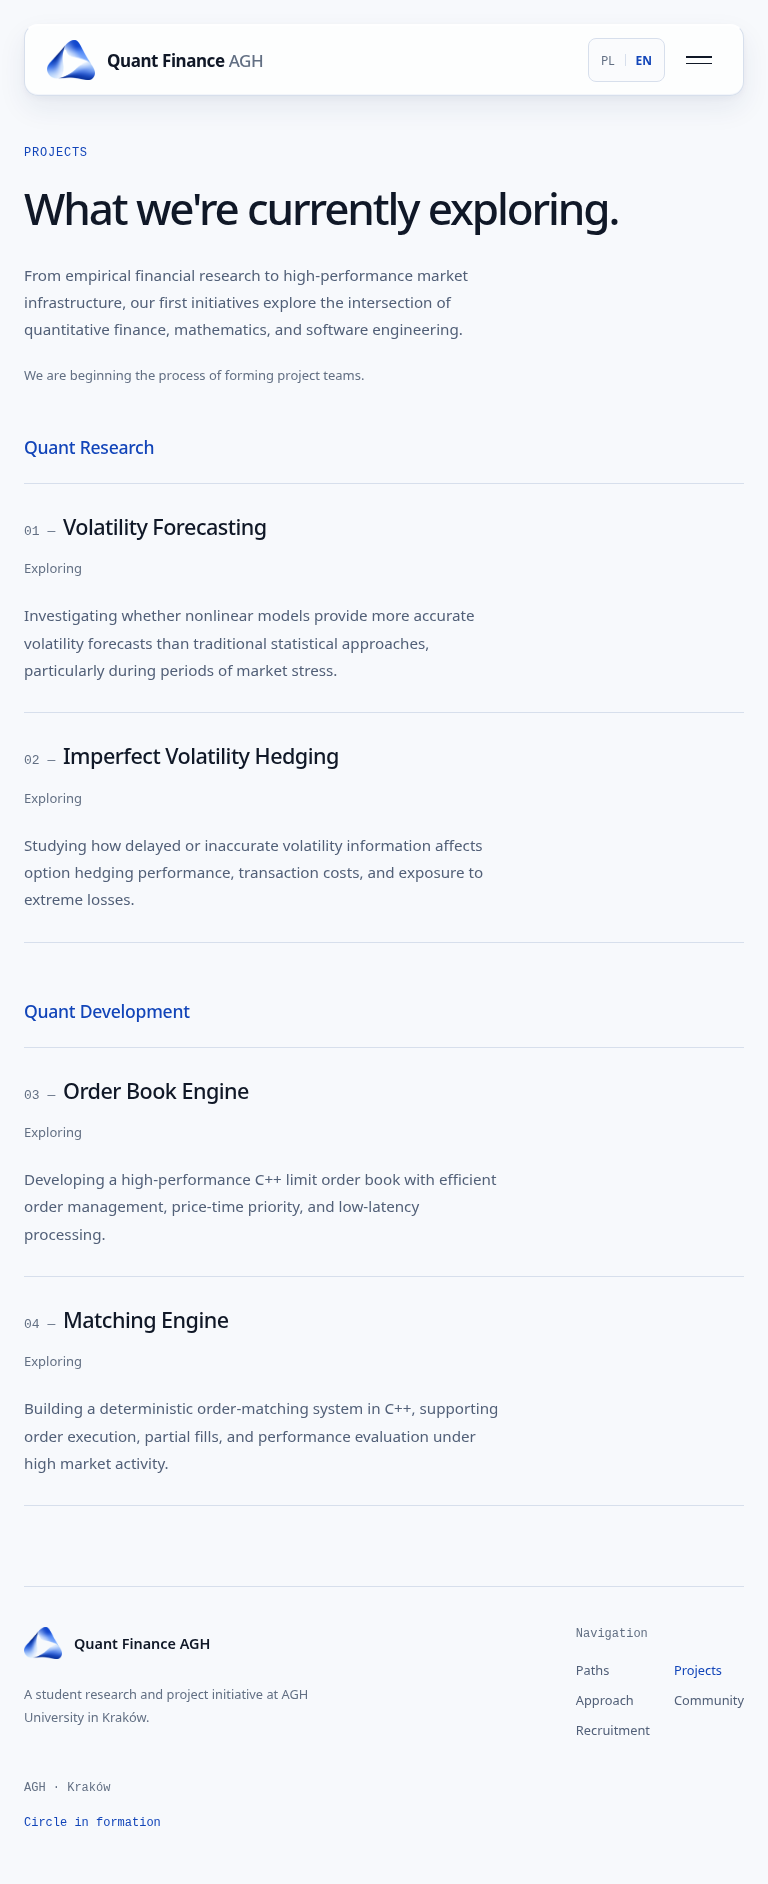
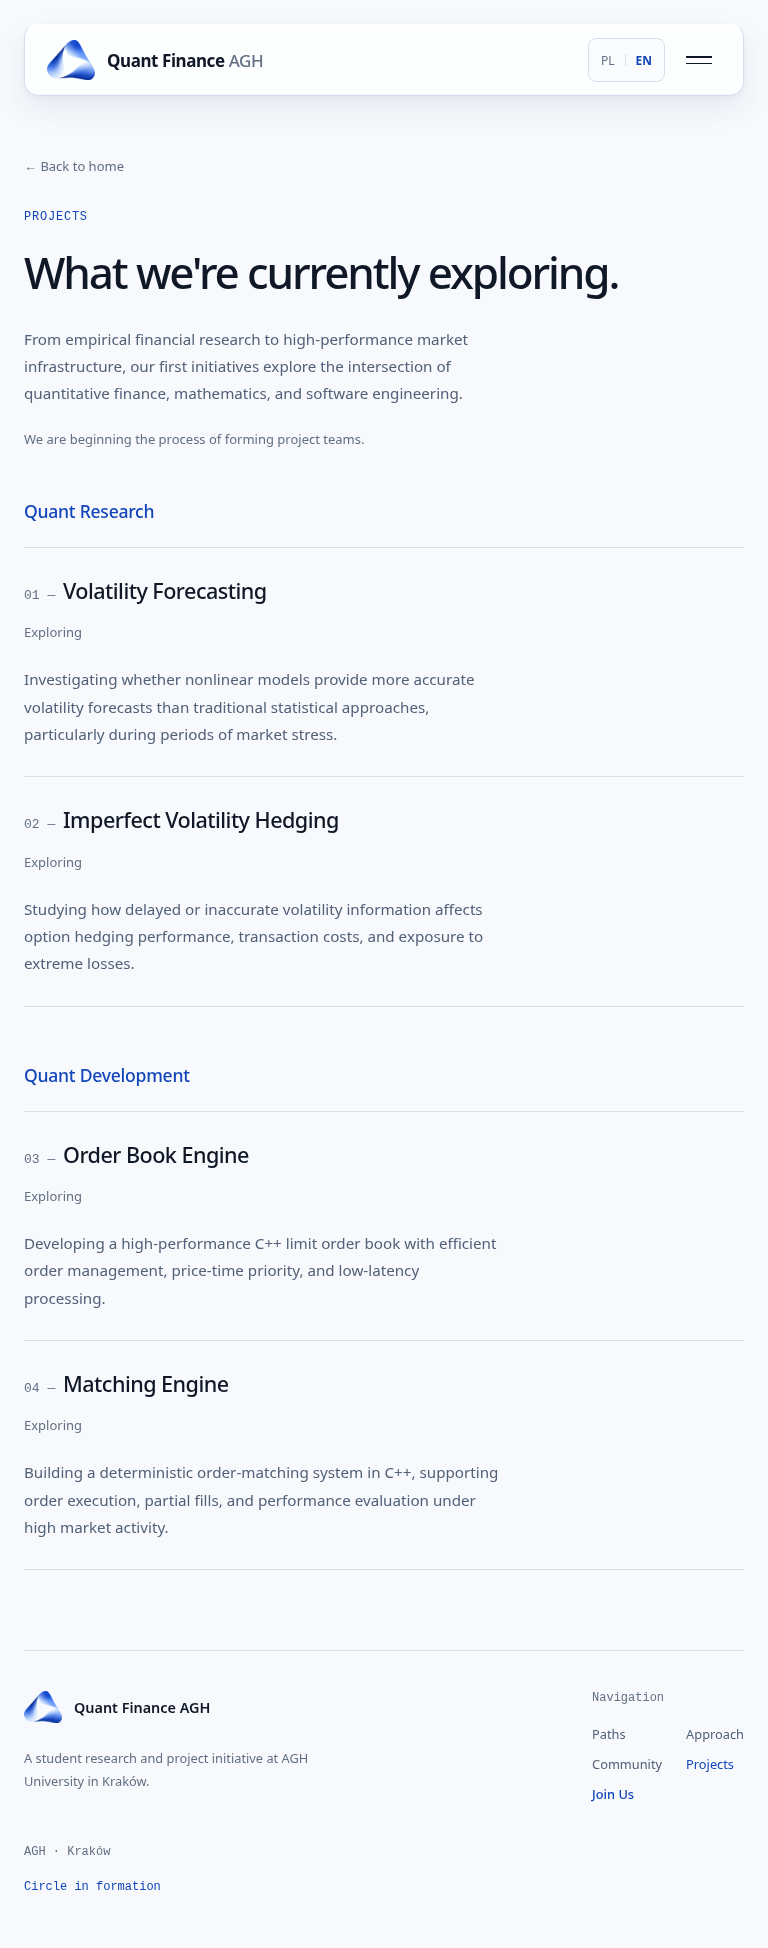
Separate Join Us action from informational navigation

diff --git a/src/styles.css b/src/styles.css
@@ -58,6 +58,8 @@ a { color: inherit; }
 .desktop-navigation a { display: inline-flex; align-items: center; min-height: 44px; text-decoration: none; color: var(--muted); font-size: .875rem; }
 .desktop-navigation a:hover { color: var(--accent); }
 .header-actions { display: flex; align-items: center; gap: 12px; }
+.header-join { display: inline-flex; align-items: center; gap: 8px; min-height: 44px; padding-inline: 6px; color: var(--accent); font-size: .875rem; font-weight: 550; text-decoration: none; white-space: nowrap; }
+.header-join:hover { color: #0f3794; }
 .language-button { min-height: 44px; display: flex; align-items: center; gap: 10px; padding: 0 12px; border: 1px solid var(--line); border-radius: 8px; background: var(--bg); color: var(--quiet); cursor: pointer; font-size: .75rem; }
 .language-button span[data-active] { color: var(--accent); font-weight: 700; }
 .language-divider { width: 1px; height: 12px; background: var(--line); }
@@ -71,6 +73,8 @@ a { color: inherit; }
 .desktop-navigation a[aria-current="page"], .footer__links a[aria-current="page"] { color: var(--accent); }
 .projects-page { padding-block: 176px var(--space-7); }
 .projects-loading { padding-block: 176px var(--space-7); }
+.projects-back-link { display: inline-flex; align-items: center; min-height: 44px; margin-bottom: 20px; color: var(--quiet); font-size: .8125rem; line-height: 1.6; text-decoration: none; }
+.projects-back-link:hover { color: var(--accent); }
 .projects-introduction { display: grid; grid-template-columns: 1.12fr .88fr; gap: 64px; align-items: start; margin-bottom: 64px; }
 .projects-introduction h1 { max-width: 680px; margin: 22px 0 0; font-size: clamp(2.75rem, 3.8vw, 3.25rem); line-height: 1.13; letter-spacing: -.048em; font-weight: 520; text-wrap: balance; }
 .projects-introduction__copy { padding-top: 4px; }
@@ -200,12 +204,14 @@ a { color: inherit; }
 .footer__links > span { grid-column: 1 / -1; margin-bottom: 8px; color: var(--quiet); font: .75rem var(--mono); }
 .footer__links a { color: var(--muted); font-size: .8rem; text-decoration: none; }
 .footer__links a:hover { color: var(--accent); }
+.footer__links .footer__join { grid-column: 1 / -1; color: var(--accent); font-weight: 550; }
 .footer__meta { justify-self: end; display: grid; justify-items: end; align-content: start; gap: 15px; color: var(--quiet); font: .75rem/1.6 var(--mono); }
 .footer-status { color: var(--accent); }
 
 @media (max-width: 1100px) {
   :root { --shell: calc(100% - 64px); }
   .desktop-navigation { display: none; }
+  .header-join { display: none; }
   .menu-button { display: block; }
   .mobile-menu-scrim { display: block; position: fixed; z-index: 0; inset: -24px calc((100vw - var(--shell)) / -2); height: 100dvh; background: rgb(16 24 39 / 20%); opacity: 0; pointer-events: none; transition: opacity 180ms ease; }
   .mobile-menu-scrim[data-open] { opacity: 1; pointer-events: auto; }
@@ -214,6 +220,7 @@ a { color: inherit; }
   .mobile-menu a { display: flex; align-items: center; justify-content: space-between; min-height: 56px; padding: 12px 16px; color: var(--ink); border-radius: 6px; text-decoration: none; font-size: .95rem; }
   .mobile-menu a:hover { background: var(--surface-raised); }
   .mobile-menu a span { color: var(--accent); }
+  .mobile-menu a.mobile-menu__join { margin-top: 8px; border-top: 1px solid var(--line); border-radius: 0; color: var(--accent); font-weight: 550; }
   .hero { padding-top: 160px; column-gap: 40px; grid-template-columns: minmax(0, 1.2fr) minmax(0, 1fr); }
   .hero h1 { font-size: clamp(2.5rem, 4.7vw, 3.25rem); }
   .path-panel { padding: 24px 20px; }

diff --git a/src/components/Header.tsx b/src/components/Header.tsx
@@ -1,6 +1,6 @@
 import { useEffect, useRef, useState } from "react";
 import type { Language, SiteCopy } from "../content";
-import { navigationItems } from "../navigation";
+import { navigationItems, recruitmentHref } from "../navigation";
 
 type HeaderProps = {
   copy: SiteCopy["header"];
@@ -55,6 +55,7 @@ export function Header({ copy, language, languageLabel, onToggleLanguage, isProj
           {items.map((item) => <a key={item.key} href={item.href} aria-current={isProjectsPage && item.key === "projects" ? "page" : undefined}>{copy[item.key]}</a>)}
         </nav>
         <div className="header-actions">
+          <a className="header-join pressable" href={recruitmentHref(isProjectsPage)}>{copy.joinAction}<span aria-hidden="true">↗</span></a>
           <button className="language-button pressable" type="button" aria-label={languageLabel} onClick={onToggleLanguage}>
             <span data-active={language === "pl" ? "" : undefined}>PL</span><span className="language-divider" aria-hidden="true" />
             <span data-active={language === "en" ? "" : undefined}>EN</span>
@@ -71,6 +72,7 @@ export function Header({ copy, language, languageLabel, onToggleLanguage, isProj
         {items.map((item) => (
           <a key={item.key} href={item.href} aria-current={isProjectsPage && item.key === "projects" ? "page" : undefined} onClick={closeMenu}>{copy[item.key]}<span aria-hidden="true">↗</span></a>
         ))}
+        <a className="mobile-menu__join" href={recruitmentHref(isProjectsPage)} onClick={closeMenu}>{copy.joinAction}<span aria-hidden="true">↗</span></a>
       </nav>
     </header>
   );

diff --git a/src/projects.ts b/src/projects.ts
@@ -28,6 +28,7 @@ export function publicProjectUrl(link: VerifiedPublicLink | undefined): string |
 }
 
 type ProjectsCopy = {
+  backHome: string;
   eyebrow: string;
   title: string;
   description: string;
@@ -39,6 +40,7 @@ type ProjectsCopy = {
 
 export const projectsCopy: Record<Language, ProjectsCopy> = {
   en: {
+    backHome: "← Back to home",
     eyebrow: "Projects",
     title: "What we're currently exploring.",
     description: "From empirical financial research to high-performance market infrastructure, our first initiatives explore the intersection of quantitative finance, mathematics, and software engineering.",
@@ -65,6 +67,7 @@ export const projectsCopy: Record<Language, ProjectsCopy> = {
     },
   },
   pl: {
+    backHome: "← Powrót na stronę główną",
     eyebrow: "Projekty",
     title: "Kierunki, które obecnie zgłębiamy.",
     description: "Od empirycznych badań finansowych po wydajną infrastrukturę rynkową — nasze pierwsze inicjatywy łączą finanse ilościowe, matematykę i inżynierię oprogramowania.",

diff --git a/src/content.ts b/src/content.ts
@@ -30,7 +30,7 @@ export type SiteCopy = {
     projects: string;
     approach: string;
     community: string;
-    recruitment: string;
+    joinAction: string;
     status: string;
     openMenu: string;
     closeMenu: string;
@@ -108,7 +108,7 @@ export const siteCopy: Record<Language, SiteCopy> = {
       projects: "Projekty",
       approach: "Podejście",
       community: "Społeczność",
-      recruitment: "Rekrutacja",
+      joinAction: "Dołącz do nas",
       status: "Formularz wkrótce",
       openMenu: "Otwórz menu",
       closeMenu: "Zamknij menu",
@@ -234,7 +234,7 @@ export const siteCopy: Record<Language, SiteCopy> = {
       projects: "Projects",
       approach: "Approach",
       community: "Community",
-      recruitment: "Recruitment",
+      joinAction: "Join Us",
       status: "Form coming soon",
       openMenu: "Open menu",
       closeMenu: "Close menu",

diff --git a/src/components/Footer.tsx b/src/components/Footer.tsx
@@ -1,5 +1,5 @@
 import type { SiteCopy } from "../content";
-import { navigationItems } from "../navigation";
+import { navigationItems, recruitmentHref } from "../navigation";
 
 type FooterProps = {
   copy: SiteCopy["footer"];
@@ -16,6 +16,7 @@ export function Footer({ copy, navigation, isProjectsPage }: FooterProps) {
         {navigationItems(isProjectsPage).map((item) => (
           <a key={item.key} href={item.href} aria-current={isProjectsPage && item.key === "projects" ? "page" : undefined}>{navigation[item.key]}</a>
         ))}
+        <a className="footer__join" href={recruitmentHref(isProjectsPage)}>{navigation.joinAction}</a>
       </div>
       <div className="footer__meta"><span>{copy.location}</span><span className="footer-status"><i aria-hidden="true" />{copy.status}</span></div>
     </footer>

diff --git a/src/navigation.ts b/src/navigation.ts
@@ -2,9 +2,12 @@ export function navigationItems(isProjectsPage: boolean) {
   const home = isProjectsPage ? "/" : "";
   return [
     { href: `${home}#paths`, key: "paths" },
-    { href: "/projects", key: "projects" },
     { href: `${home}#approach`, key: "approach" },
     { href: `${home}#community`, key: "community" },
-    { href: `${home}#recruitment`, key: "recruitment" },
+    { href: "/projects", key: "projects" },
   ] as const;
+}
+
+export function recruitmentHref(isProjectsPage: boolean) {
+  return isProjectsPage ? "/#recruitment" : "#recruitment";
 }

diff --git a/src/components/ProjectsPage.tsx b/src/components/ProjectsPage.tsx
@@ -15,6 +15,7 @@ export default function ProjectsPage({ language }: { language: Language }) {
 
   return (
     <div className="projects-page shell">
+      <a className="projects-back-link" href="/">{copy.backHome}</a>
       <header className="projects-introduction" data-reveal>
         <div><p className="eyebrow">{copy.eyebrow}</p><h1>{copy.title}</h1></div>
         <div className="projects-introduction__copy"><p>{copy.description}</p><p className="projects-formation-note">{copy.formationNote}</p></div>

diff --git a/docs/projects-and-membership-review.md b/docs/projects-and-membership-review.md
@@ -7,7 +7,8 @@ Branch: `feat/projects-and-membership`, created from `main` at `1e6970f`. This i
 - `/projects` and `/projects/` present four concise bilingual entries in Quant Research and Quant Development groups. The English heading, introduction and summaries follow the supplied brief. All four display **Exploring / Rozpoznanie**, with a note that team formation is beginning.
 - IDs, numbering and grouping come from `src/projectProposals.ts`. That complete file is byte-for-byte unchanged from main; scientific methods, technical scope, evaluation, deliverables and proposed staffing/durations remain preserved. The short presentation copy and manually maintained publication status live separately in `src/projects.ts`.
 - Optional repository, documentation and publication/report links have a URL plus a required verification date. No links are configured or rendered. A date records manual verification; it does not automatically check a URL or advance status. Project status changes require a reviewed source change with verified evidence.
-- Desktop/mobile navigation and the footer share the same Projects link. The existing navigation material and all prior style rules are unchanged. On Projects, section links point back to the homepage and the active page is identified with `aria-current="page"`.
+- Informational navigation follows Paths → Approach → Community → Projects (with Polish labels). Desktop Join Us ↗ / Dołącz do nas ↗ is a separate quiet blue action next to the PL/EN switcher. On mobile it is the final menu action, separated by a thin rule; the footer follows the same hierarchy and ends with Join Us. Projects always opens in the same tab. The existing glass material, logo and menu behavior remain unchanged. On Projects, homepage links use `/#...` and the active page is identified with `aria-current="page"`.
+- Projects has a small ← Back to home / ← Powrót na stronę główną link above the introduction, pointing to `/` and retaining the saved language preference.
 - Page changes use native links. No routing dependency was added; the Projects module loads separately. Explicit PL/EN preferences survive native page navigation and reloads. Fresh visitors start in English.
 - A small initial-fragment effect scrolls/focuses homepage sections after React mounts, so cross-page section links work with keyboard navigation. Existing same-page links retain their behavior.
 
@@ -42,12 +43,22 @@ Manual steps remain: authorize/run under the verified society account; inspect r
 - Apps Script tests use service doubles; they verify local syntax/control flow, **not actual Google execution or account ownership**.
 - Chromium production-output tests pass in EN/PL at **375, 768, 1440 and 1920px**: direct `/projects`, refresh, four statuses, correct groups/indices, no invented project links, shared navigation/footer links, cross-page section focus/clearance, language persistence and brand-home links.
 - Skip link, keyboard Enter navigation, mobile menu initial focus/Escape restoration and closed recruitment dialog Tab/Shift+Tab containment, Escape/close/backdrop dismissal, body scroll lock and focus restoration pass. Tests include reduced motion.
-- No horizontal document overflow, JavaScript/console errors or failed requests in the eight viewport/language runs. Visual review covers desktop and mobile in both languages.
+- The final navigation refinement is checked on both pages in EN/PL at 375, 768, 1101, 1440 and 1920px. The 1101px desktop threshold fits all header items, including the Polish Join Us label. Every header/menu/footer destination, same-tab Projects navigation, cross-page section focus, Back to home, language persistence and Escape/menu closure are verified.
+- No horizontal document overflow, JavaScript/console errors or failed requests in the viewport/language runs. Visual review covers desktop and mobile in both languages.
 - Normal-motion and browser-storage failure checks also pass; the retained hero tab controls still support Arrow/Home/End navigation. Solid reduced-transparency styles are preserved unchanged.
 
 Firefox/Safari, the actual future hosting platform and live Google ownership/settings/response destination have not been independently verified. These limits are separate from the passing local site checks.
 
 ## Screenshots
+
+### Navigation refinement
+
+| Language | Desktop header · homepage | Desktop header · Projects | Mobile menu · homepage | Mobile menu · Projects |
+| --- | --- | --- | --- | --- |
+| English | [Header](screenshots/projects-and-membership/en-home-desktop-navigation.png) | [Header and back link](screenshots/projects-and-membership/en-projects-desktop-navigation.png) | [Menu](screenshots/projects-and-membership/en-home-mobile-menu.png) | [Menu](screenshots/projects-and-membership/en-projects-mobile-menu.png) |
+| Polish | [Header](screenshots/projects-and-membership/pl-home-desktop-navigation.png) | [Header and back link](screenshots/projects-and-membership/pl-projects-desktop-navigation.png) | [Menu](screenshots/projects-and-membership/pl-home-mobile-menu.png) | [Menu](screenshots/projects-and-membership/pl-projects-mobile-menu.png) |
+
+### Complete pages
 
 Projects captures use 375 × 812 or 768/1440/1920 × 1000 browser viewports; screenshot height follows the page content.
 

diff --git a/README.md b/README.md
@@ -50,7 +50,7 @@ Katalog projektów nie jest renderowany na stronie głównej. `src/projectPropos
 
 ## Projekty i członkostwo
 
-`/projects` (także `/projects/`) korzysta ze wspólnego nagłówka, stopki i zapisanego wyboru języka. Cztery inicjatywy mają status Exploring / Rozpoznanie, a pełne propozycje pozostają w `src/projectProposals.ts`. `src/projects.ts` zawiera krótkie opisy i ręcznie aktualizowany status oraz opcjonalne publiczne linki z datą ich weryfikacji. Obecnie żadne linki projektów nie są podane.
+`/projects` (także `/projects/`) korzysta ze wspólnego nagłówka, stopki i zapisanego wyboru języka. Nawigacja informacyjna ma kolejność Paths → Approach → Community → Projects; Dołącz do nas jest osobnym CTA przy przełączniku języka na desktopie i ostatnią wyróżnioną pozycją menu mobilnego oraz stopki. Strona projektów zawiera link Powrót na stronę główną. Cztery inicjatywy mają status Exploring / Rozpoznanie, a pełne propozycje pozostają w `src/projectProposals.ts`. `src/projects.ts` zawiera krótkie opisy i ręcznie aktualizowany status oraz opcjonalne publiczne linki z datą ich weryfikacji. Obecnie żadne linki projektów nie są podane.
 
 Build tworzy `dist/projects/index.html`, korzystając z istniejącej aplikacji i bez zależności routingu. Hosting powinien serwować cały `dist` z katalogowymi plikami `index.html`; przekierowanie `/projects` → `/projects/` jest dopuszczalne. Nie wymaga to globalnego SPA rewrite. Jeśli wybrana platforma obsługuje wyłącznie pojedynczy punkt wejścia, należy uzgodnić mapowanie `/projects` do tego pliku. Brak publicznego hostingu oznacza, że test na docelowej platformie jest nadal do wykonania. Nie zmieniono ustawień wdrożenia.
 
